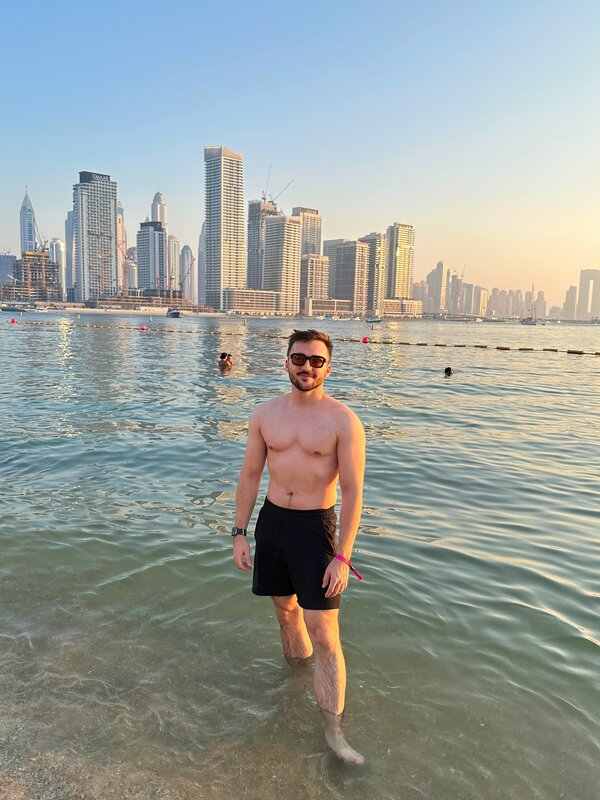
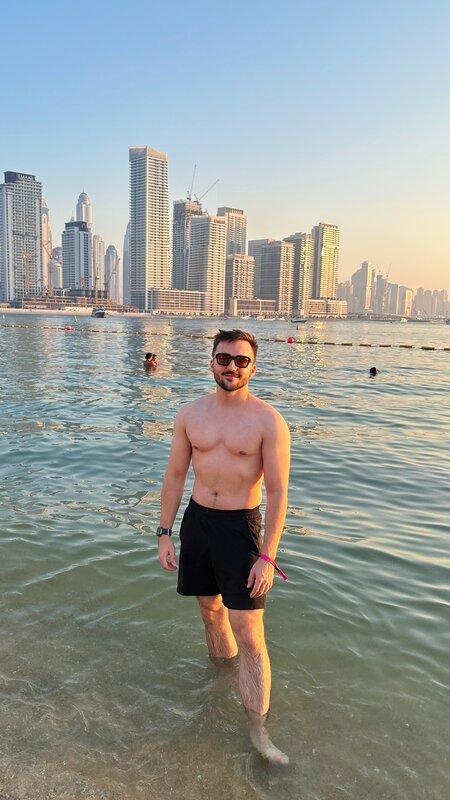
feat: reprocess images to 16:9 and 9:16, use aspect-video popover with object-cover

diff --git a/src/components/travel-map.tsx b/src/components/travel-map.tsx
@@ -325,14 +325,16 @@ export function TravelMap() {
             animate={{opacity: 1}}
             exit={reducedMotion ? {opacity: 0} : {opacity: 0}}
             transition={{duration: reducedMotion ? 0 : 0.15}}
-            className="absolute z-50 pointer-events-none w-64 overflow-hidden rounded-lg border border-white/10 bg-neutral-900/95 backdrop-blur-sm shadow-xl"
+            className="absolute z-50 pointer-events-none w-56 overflow-hidden rounded-lg border border-white/10 bg-neutral-900/95 backdrop-blur-sm shadow-xl"
             style={getPopoverStyle()}
           >
-            <img
-              src={popover.country.image}
-              alt={popover.name}
-              className="w-full h-32 object-cover"
-            />
+            <div className="w-full aspect-video">
+              <img
+                src={popover.country.image}
+                alt={popover.name}
+                className="w-full h-full object-cover object-center"
+              />
+            </div>
             <div className="px-3 py-2">
               <p className="text-sm font-medium text-white">{popover.name}</p>
               <p className="text-xs text-white/50">{popover.country.year}</p>
